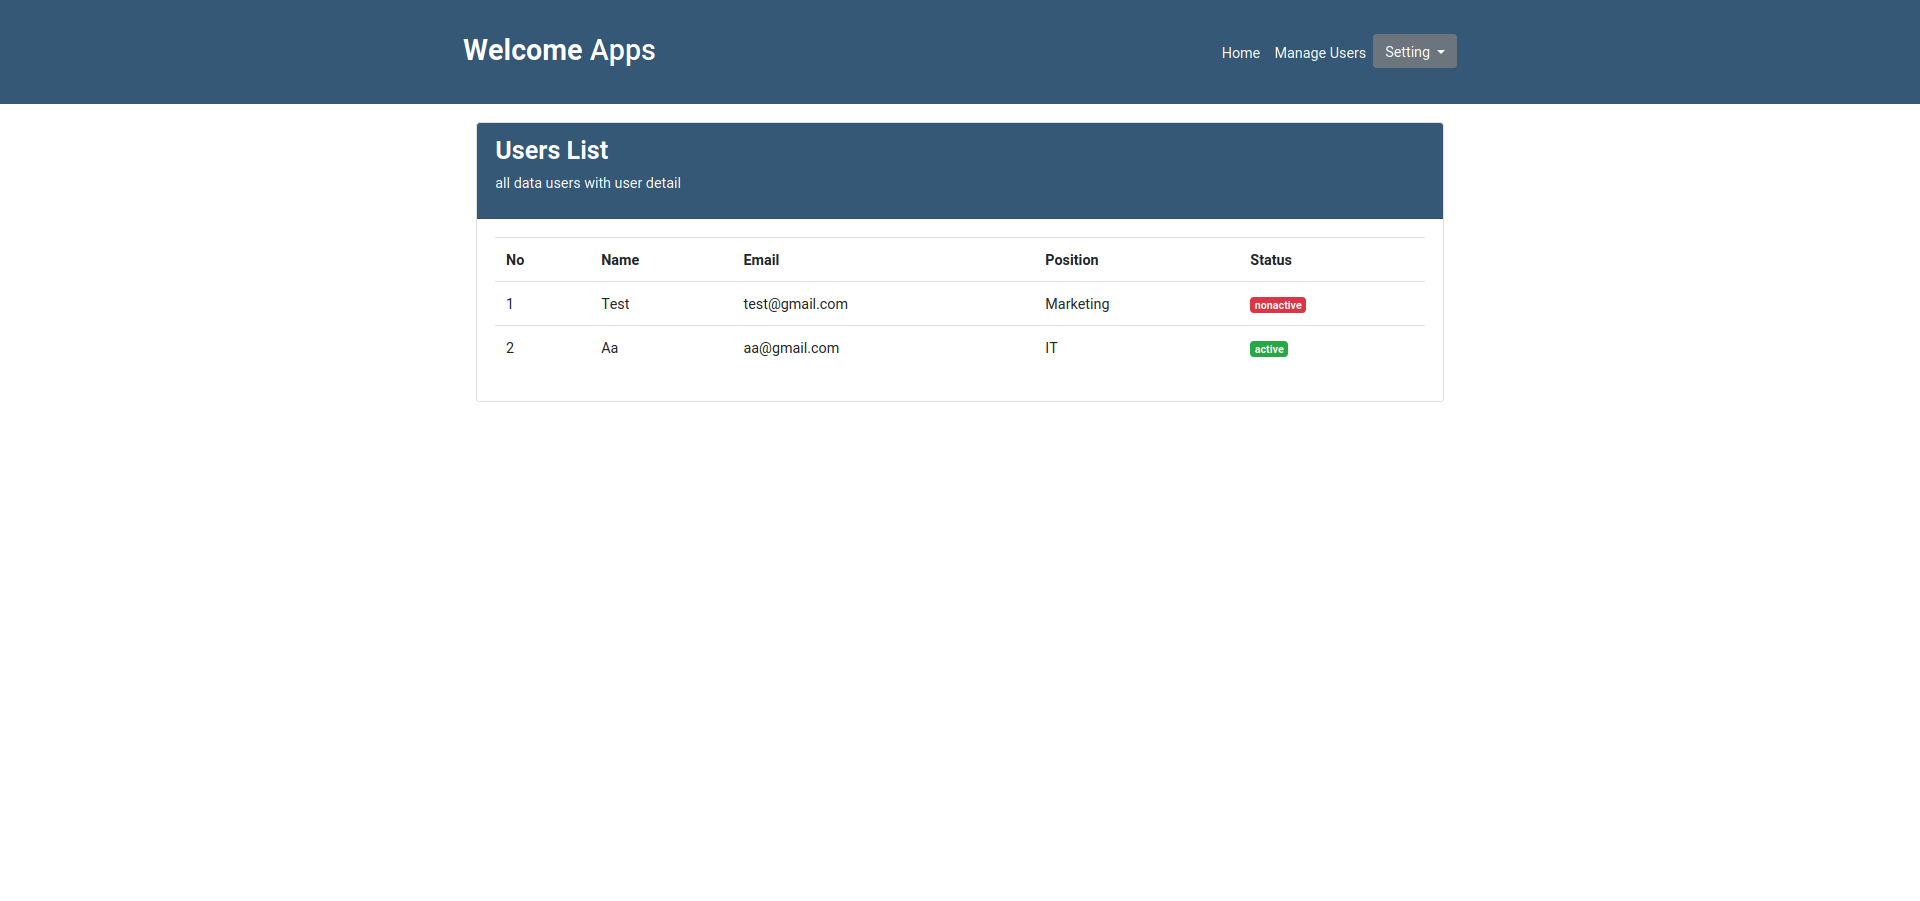
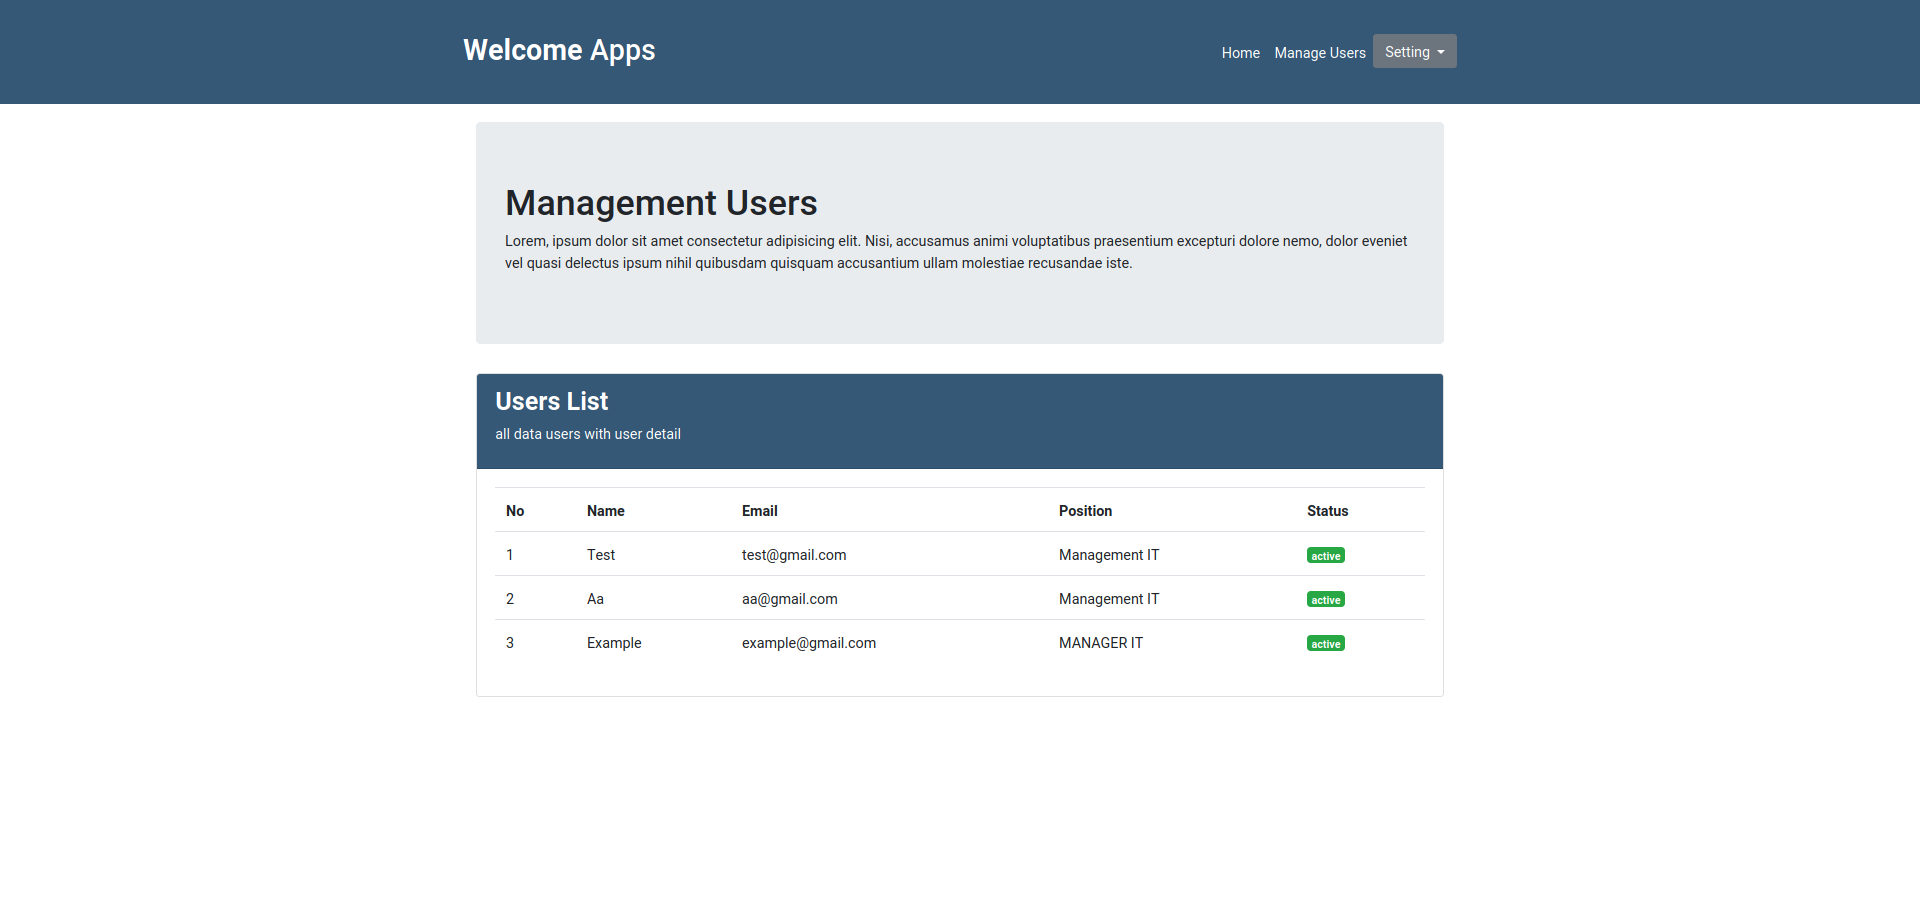
update result

diff --git a/resources/views/manage_user/index.blade.php b/resources/views/manage_user/index.blade.php
@@ -2,6 +2,10 @@
 
 @section('content')
 <div class="col-sm-12 col-md-12 col-xs-12">
+    <div class="jumbotron">
+        <h1>Management Users</h1>
+        <p>Lorem, ipsum dolor sit amet consectetur adipisicing elit. Nisi, accusamus animi voluptatibus praesentium excepturi dolore nemo, dolor eveniet vel quasi delectus ipsum nihil quibusdam quisquam accusantium ullam molestiae recusandae iste.</p>
+      </div>
         <div class="card">
             <div class="card-header">
                 <h3>
